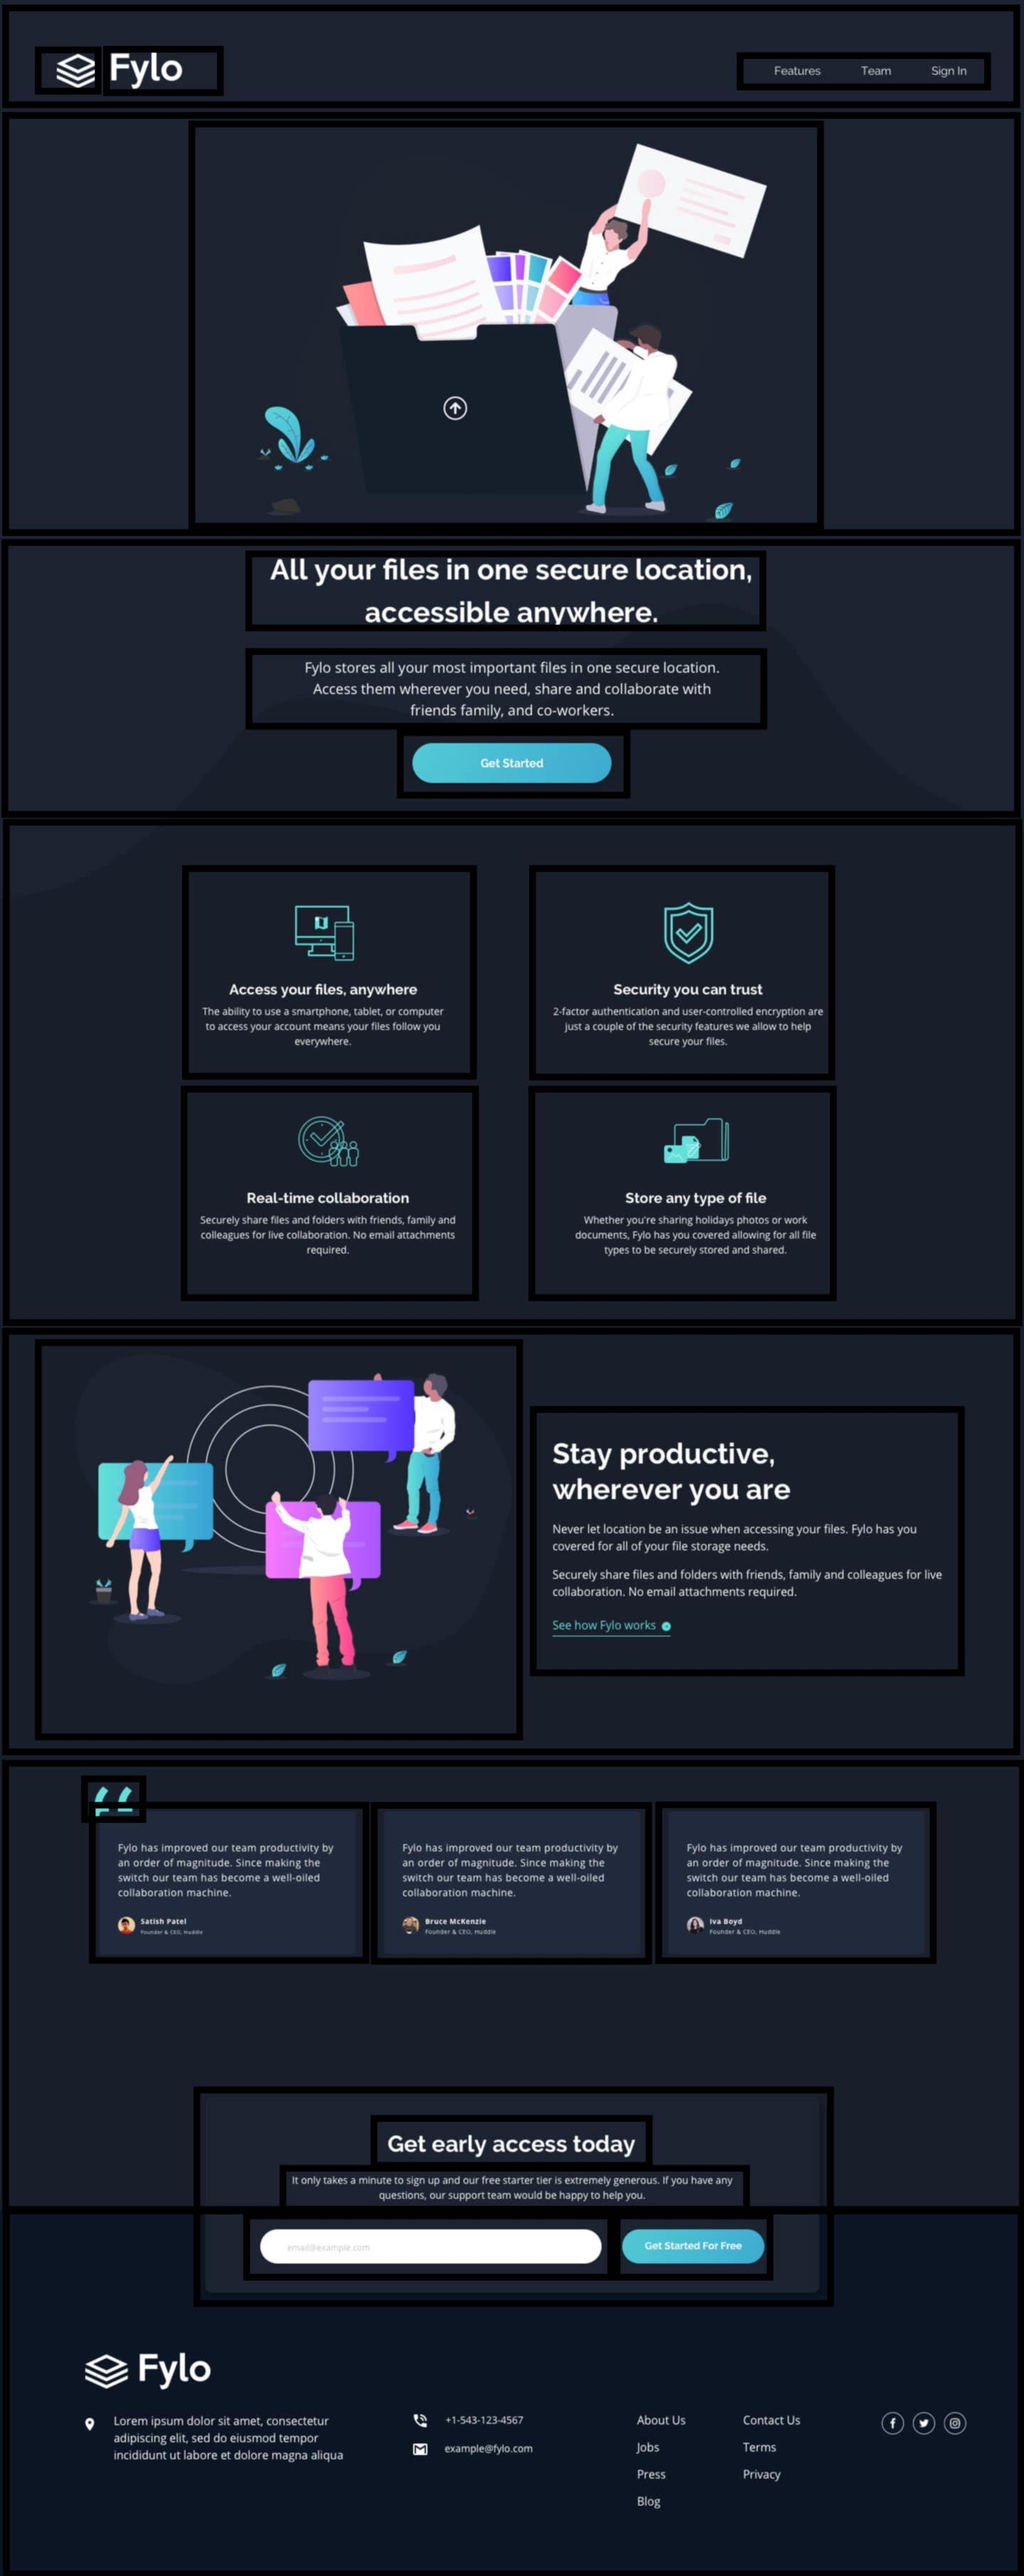
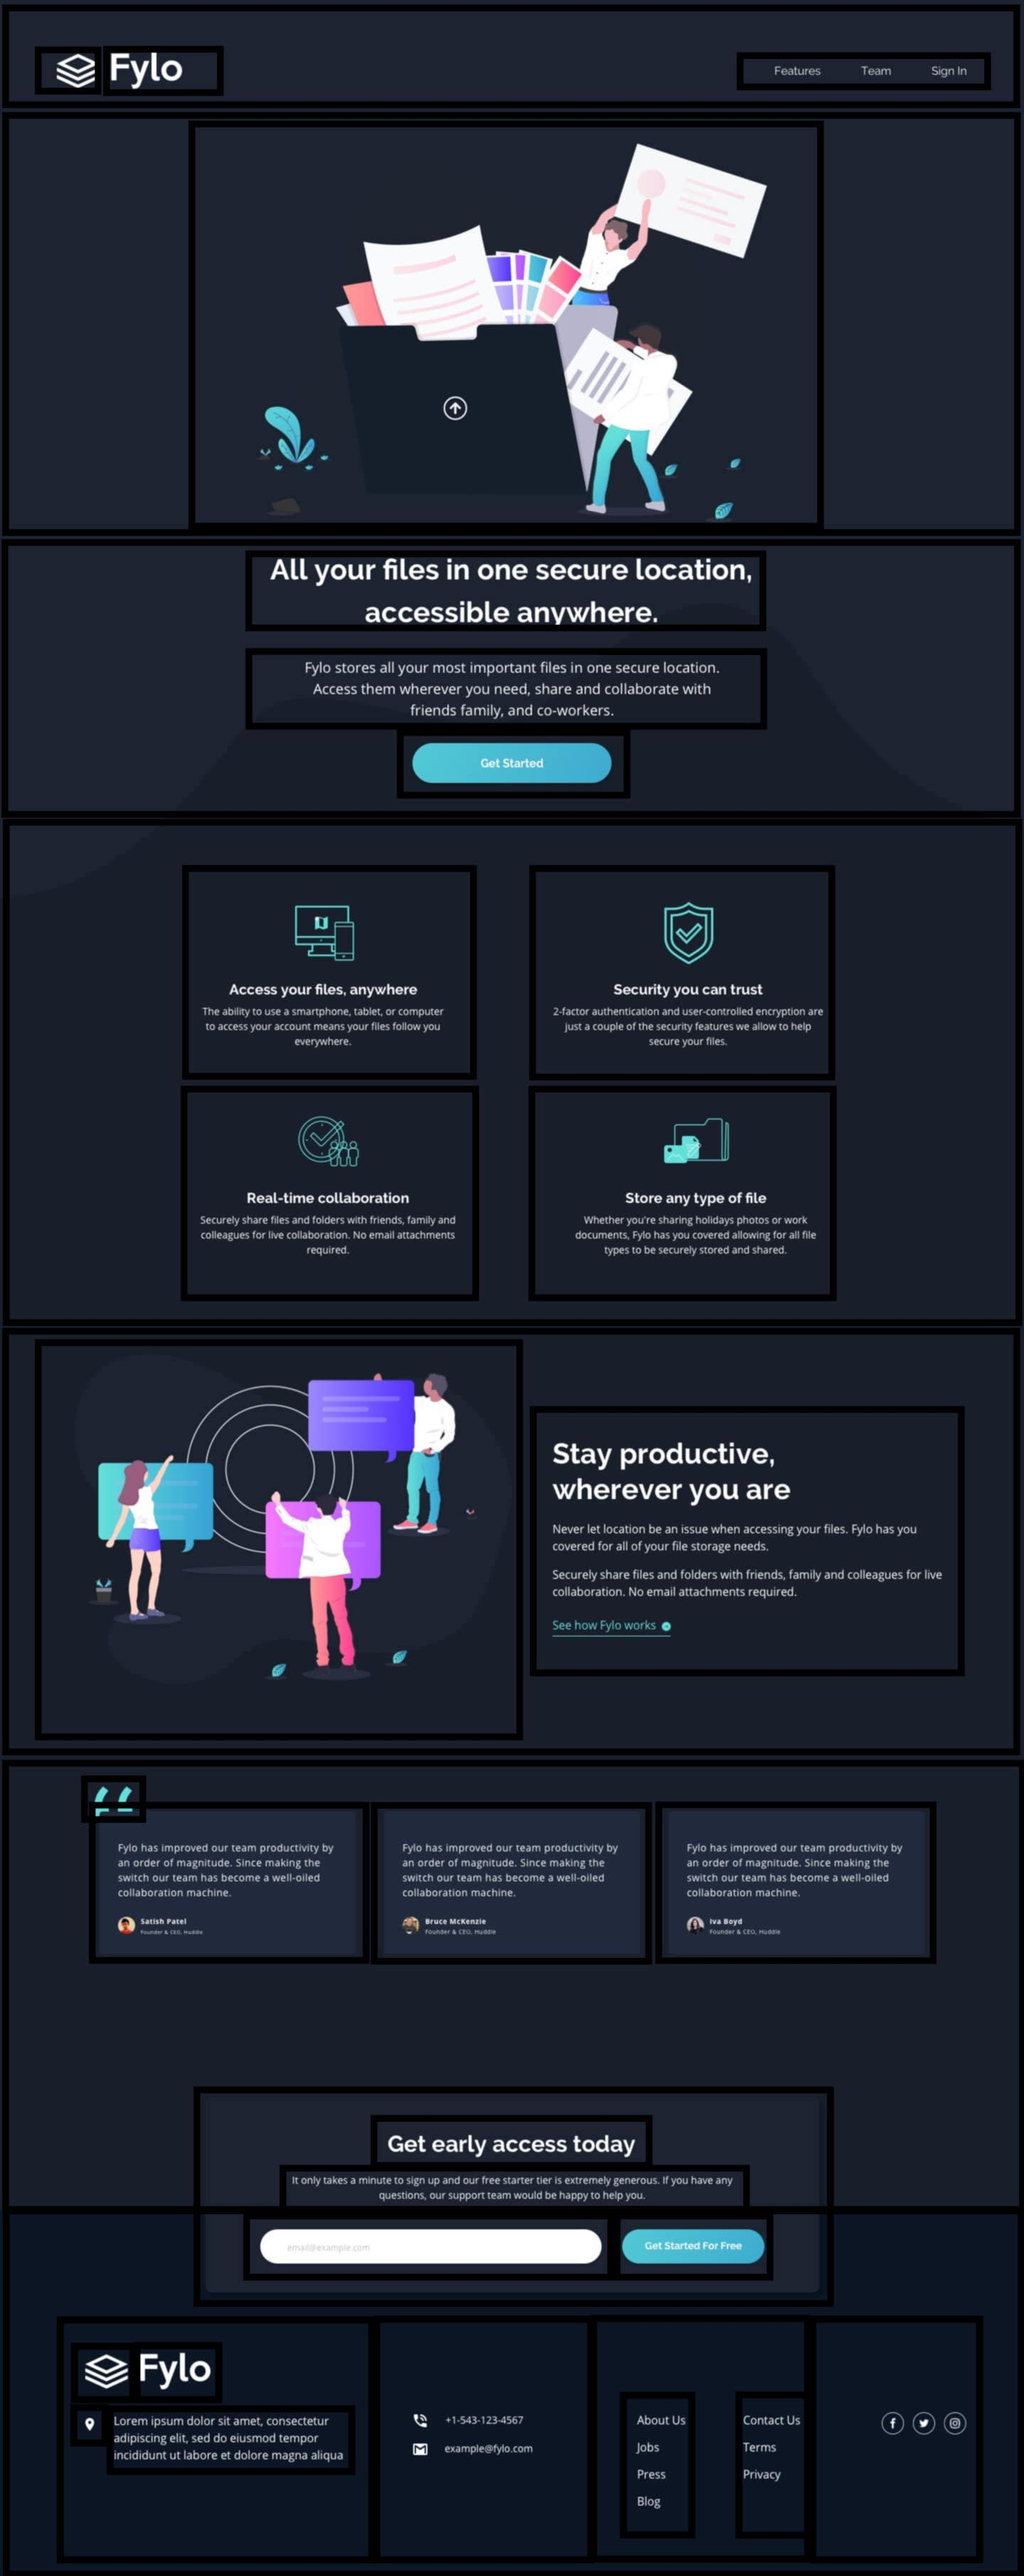
Added contact and footer

diff --git a/index.html b/index.html
@@ -80,57 +80,102 @@
         <h5><a href="#">See how Fylo works<img src="images/icon-arrow.svg"></a></h5>
       </div>
     </section>
-    <section></section>
+
+    <!--Testimonials-->
+    <section id="team">
+      <img src="images/bg-quotes.png">
+      <div class="testimony_card">
+        <p>Fylo has improved our team productivity by an order of magnitude. Since making the switch our team has
+        become a well-oiled collaboration machine.</p>
+        <div class="testimony_photo">
+          <img src="images/profile-1.jpg">
+        </div>
+        <div class="testimony_name">
+          <p>Satish Patel</p>
+          <p>Founder & CEO, Huddle</p>
+        </div>
+      </div>
+
+      <div class="testimony_card">
+        <p>Fylo has improved our team productivity by an order of magnitude. Since making the switch our team has
+        become a well-oiled collaboration machine.</p>
+        <div class="testimony_photo">
+          <img src="images/profile-2.jpg">
+        </div>
+        <div class="testimony_name">
+          <p>Bruce McKenzie</p>
+          <p>Founder & CEO, Huddle</p>
+        </div>
+      </div>
+
+      <div class="testimony_card">
+        <p>Fylo has improved our team productivity by an order of magnitude. Since making the switch our team has
+        become a well-oiled collaboration machine.</p>
+        <div class="testimony_photo">
+          <img src="images/profile-3.jpg">
+        </div>
+        <div class="testimony_name">
+          <p>Iva Boyd</p>
+          <p>Founder & CEO, Huddle</p>
+        </div>
+      </div>
+    </section>
+
+    <!--Contact-->
+    <section id="signin">
+      <h3 id="signin_intro">Get early access today</h3>
+      <p id="tag_summary">It only takes a minute to sign up and our free starter tier is extremely generous. If you have any
+      questions, our support team would be happy to help you.</p>
+      <input type="email" name="email" id="email_input" placeholder="email@example.com">
+      <button type="submit">Get Started For Free</button>
+    </section>
 
   </main>
-  
-  
-
-  Fylo has improved our team productivity by an order of magnitude. Since making the switch our team has 
-  become a well-oiled collaboration machine.
-
-  Satish Patel
-  Founder & CEO, Huddle
-
-  Fylo has improved our team productivity by an order of magnitude. Since making the switch our team has 
-  become a well-oiled collaboration machine.
-
-  Bruce McKenzie
-  Founder & CEO, Huddle
-
-  Fylo has improved our team productivity by an order of magnitude. Since making the switch our team has 
-  become a well-oiled collaboration machine.
-
-  Iva Boyd
-  Founder & CEO, Huddle
-
-  Get early access today
-
-  It only takes a minute to sign up and our free starter tier is extremely generous. If you have any 
-  questions, our support team would be happy to help you.
-
-  Get Started For Free
-
-  Lorem ipsum dolor sit amet, consectetur adipiscing elit, sed do eiusmod tempor incididunt ut labore et 
-  dolore magna aliqua
-
-  +1-543-123-4567
-  example@fylo.com
-
-  About Us
-  Jobs
-  Press
-  Blog
-
-  Contact Us
-  Terms
-  Privacy
-
   <footer id="footer">
+    <section id="footer_content">
+      <div id="footer1">
+        <div>
+          <img src="images/logo.svg">
+          <h2>Fylo</h2>
+        </div>
+        <div>
+          <img src="images/icon-location.svg">
+          <p>Lorem ipsum dolor sit amet, consectetur adipiscing elit, sed do eiusmod tempor incididunt ut labore et
+          dolore magna aliqua</p>
+        </div>
+      </div>
+      <div id="footer2">
+        <ul>
+          <li>
+            <img src="images/icon-phone.svg"><p>+1-543-123-4567</p>
+          </li>
+          <li>
+            <img src="images/icon-email.svg"><p>example@fylo.com</p>
+          </li>
+        </ul>
+      </div>
+      <div id="footer3">
+        <ul>
+          <li>About Us</li>
+          <li>Jobs</li>
+          <li>Press</li>
+          <li>Blog</li>
+        </ul>
+        <ul>
+          <li>Contact Us</li>
+          <li>Terms</li>
+          <li>Privacy</li>
+        </ul>
+      </div>
+      <div id="footer4">
+        Social Icons
+      </div>
+    </section>
     <p class="attribution">
-      Challenge by <a href="https://www.frontendmentor.io?ref=challenge" target="_blank">Frontend Mentor</a>. 
+      Challenge by <a href="https://www.frontendmentor.io?ref=challenge" target="_blank">Frontend Mentor</a>.
       Coded by <a href="#">T.Lanette Pollard</a>.
     </p>
   </footer>
+  
 </body>
 </html>
